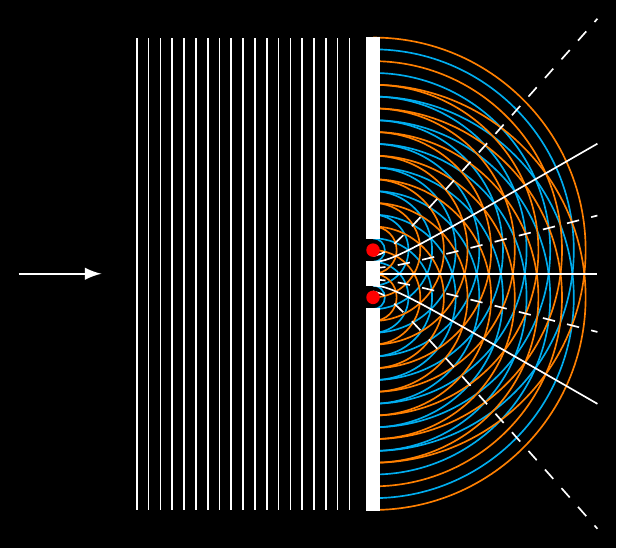
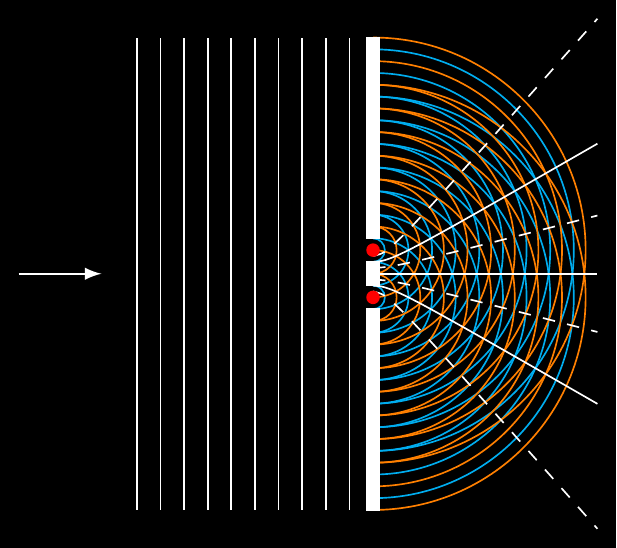
correcting wave length

diff --git a/optics/huygens-double-slit-2/huygens-double-slit-2.tex b/optics/huygens-double-slit-2/huygens-double-slit-2.tex
@@ -13,7 +13,7 @@
   \coordinate (a) at (0,\slitdistance/2);
   \coordinate (b) at (0,-\slitdistance/2);
   % plain waves
-  \foreach\X in {-2,-1.9,...,-0.1} {\draw(\X,-2)--(\X,2);}
+  \foreach\X in {-2,-1.8,...,-0.2} {\draw(\X,-2)--(\X,2);}
   % circular waves
   \foreach \r in {0.1,0.3,...,1.8} {
     \draw[blue] (a)+(-90:\r) arc (-90:90:\r);

diff --git a/optics/huygens-double-slit-2/huygens-double-slit-2_inverted.tex b/optics/huygens-double-slit-2/huygens-double-slit-2_inverted.tex
@@ -22,7 +22,7 @@
   \coordinate (a) at (0,\slitdistance/2);
   \coordinate (b) at (0,-\slitdistance/2);
   % plain waves
-  \foreach\X in {-2,-1.9,...,-0.1} {\draw(\X,-2)--(\X,2);}
+  \foreach\X in {-2,-1.8,...,-0.2} {\draw(\X,-2)--(\X,2);}
   % circular waves
   \foreach \r in {0.1,0.3,...,1.8} {
     \draw[blue] (a)+(-90:\r) arc (-90:90:\r);

diff --git a/optics.md b/optics.md
@@ -123,7 +123,7 @@
   \coordinate (a) at (0,\slitdistance/2);
   \coordinate (b) at (0,-\slitdistance/2);
   % plain waves
-  \foreach\X in {-2,-1.9,...,-0.1} {\draw(\X,-2)--(\X,2);}
+  \foreach\X in {-2,-1.8,...,-0.2} {\draw(\X,-2)--(\X,2);}
   % circular waves
   \foreach \r in {0.1,0.3,...,1.8} {
     \draw[blue] (a)+(-90:\r) arc (-90:90:\r);
@@ -656,7 +656,7 @@ color(75bp)=(violet); color(100bp)=(violet)}
   \coordinate (a) at (0,\slitdistance/2);
   \coordinate (b) at (0,-\slitdistance/2);
   % plain waves
-  \foreach\X in {-2,-1.9,...,-0.1} {\draw(\X,-2)--(\X,2);}
+  \foreach\X in {-2,-1.8,...,-0.2} {\draw(\X,-2)--(\X,2);}
   % circular waves
   \foreach \r in {0.1,0.3,...,1.8} {
     \draw[blue] (a)+(-90:\r) arc (-90:90:\r);
